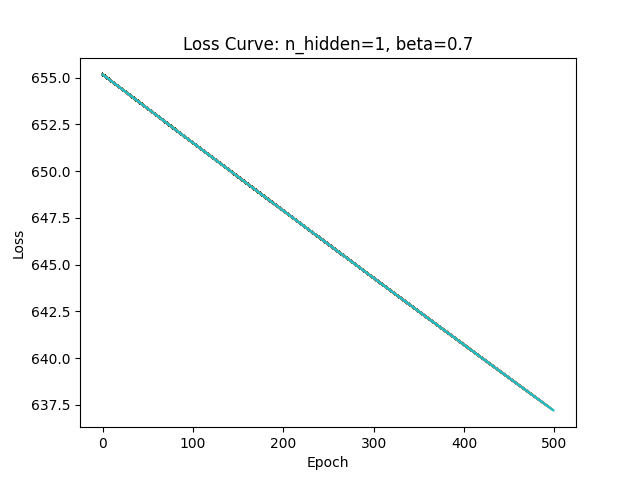
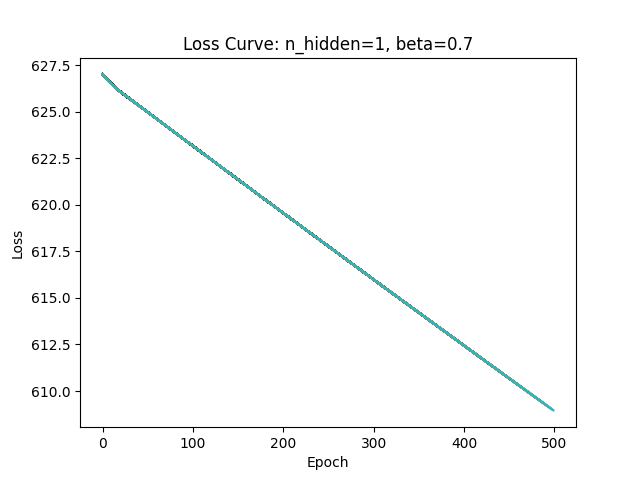
llll

diff --git a/加入激活函數.py b/加入激活函數.py
@@ -142,8 +142,8 @@ cases = [
     (2, 0.7),
     (100, 0.7),
     (100, 0.3),
-    (100000, 0.7),
-    (100000, 0.1)
+    (10000, 0.7),
+    (10000, 0.1)
 ]
 results = []
 
